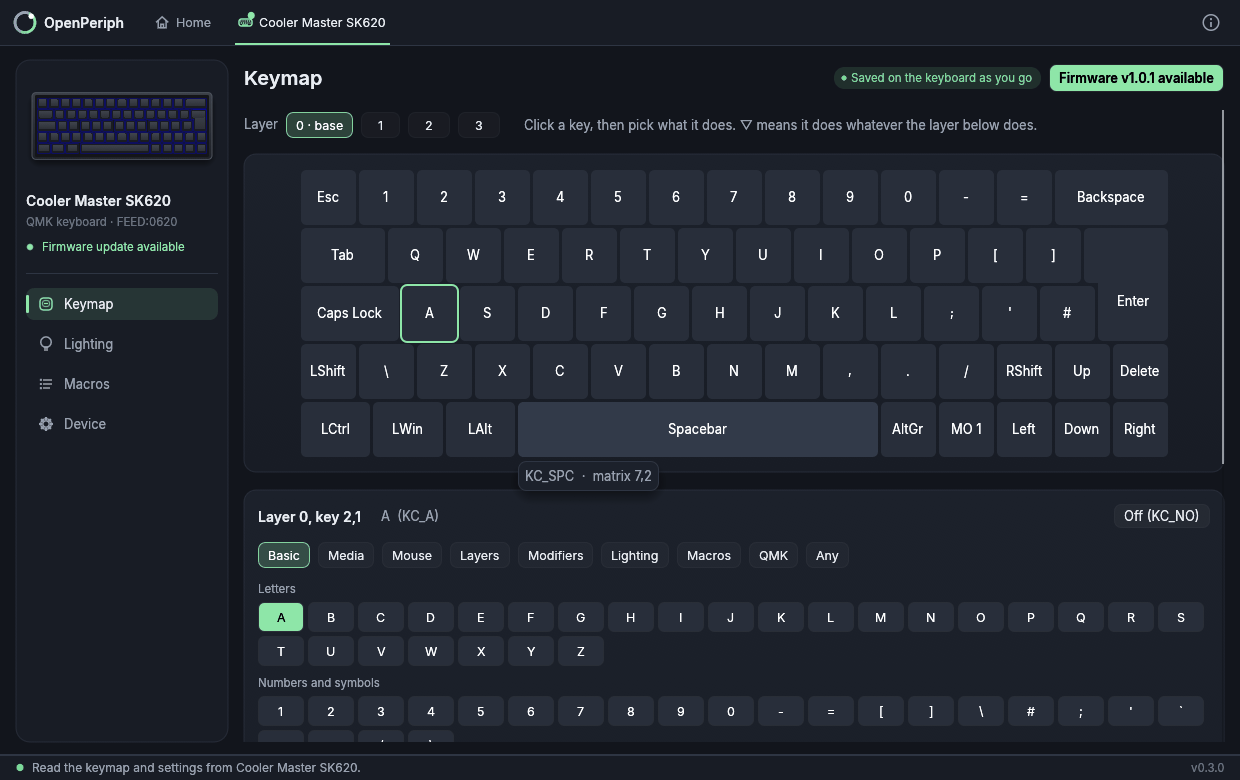
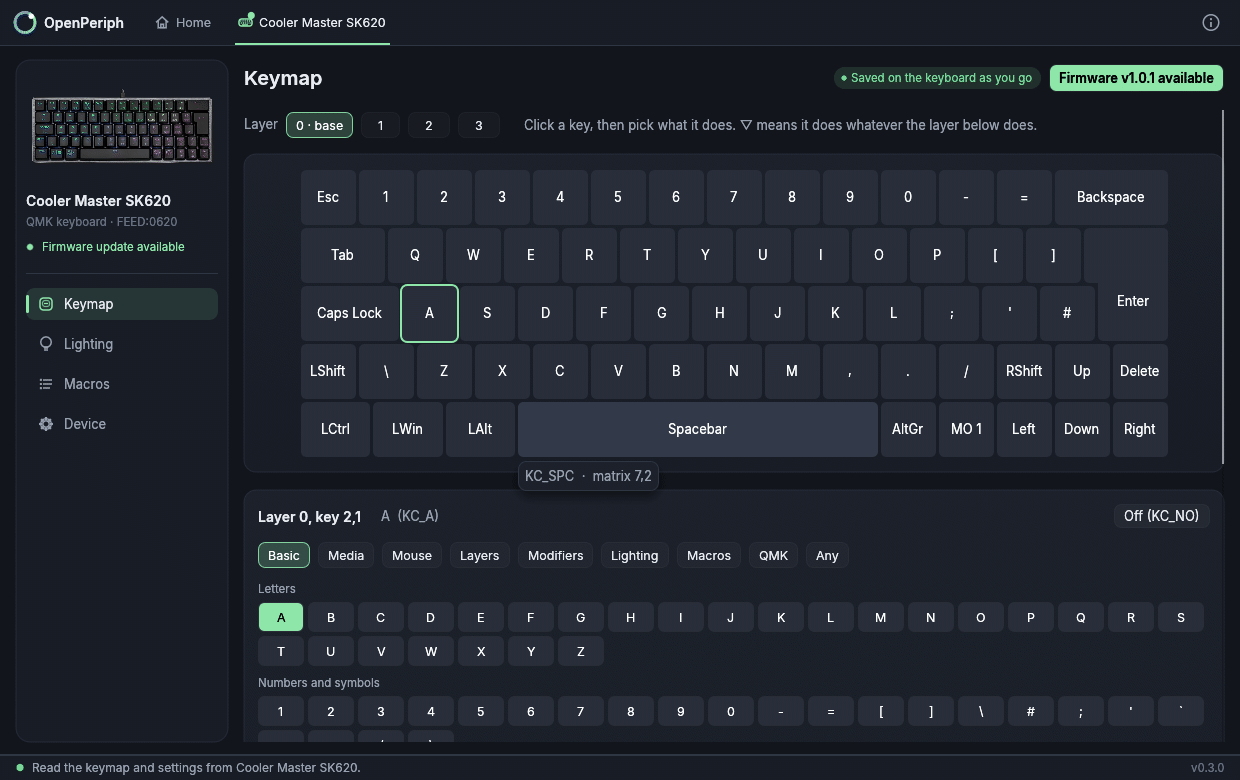
Photos of the SK620 and CIY X78 too
Product photos with the white background removed (flood fill from the edges, soft edge),
bundled and shown wherever these keyboards appear unless you pick your own photo.

Claude-Session: https://claude.ai/code/session_01DgkXHx1UEjKkGhSzFn2nf5

Changed region(s): [[0.0, 0.0923, 0.1839, 0.2154]]

diff --git a/src/app/shell.rs b/src/app/shell.rs
@@ -30,12 +30,14 @@ impl Pictures {
     }
 
     /// A photo that comes with the app, for devices that have one.
-    pub fn bundled(&mut self, ctx: &egui::Context, id: &str) -> Option<egui::TextureHandle> {
-        let bytes: &'static [u8] = match id {
-            "attack-shark-r5-ultra" => include_bytes!("../../assets/devices/attack-shark-r5-ultra.png"),
+    pub fn bundled(&mut self, ctx: &egui::Context, info: &crate::device::DeviceInfo) -> Option<egui::TextureHandle> {
+        let (name, bytes): (&str, &'static [u8]) = match (info.id.as_str(), info.vendor_id, info.product_id) {
+            ("attack-shark-r5-ultra", _, _) => ("attack-shark-r5-ultra", include_bytes!("../../assets/devices/attack-shark-r5-ultra.png")),
+            ("ciy-x78", _, _) => ("ciy-x78", include_bytes!("../../assets/devices/ciy-x78.png")),
+            (_, 0xFEED, 0x0620) => ("cooler-master-sk620", include_bytes!("../../assets/devices/cooler-master-sk620.png")),
             _ => return None,
         };
-        let key = format!("bundled-{id}");
+        let key = format!("bundled-{name}");
         self.loaded.entry(key.clone()).or_insert_with(|| theme::texture_from_bytes(ctx, &key, bytes)).clone()
     }
 
@@ -443,7 +445,8 @@ impl OpenPeriphApp {
             theme::photo(p, rect, &tex);
             return;
         }
-        if let Some(tex) = self.pictures.bundled(ctx, &id) {
+        let info = self.devices[i].driver.info().clone();
+        if let Some(tex) = self.pictures.bundled(ctx, &info) {
             theme::photo(p, rect, &tex);
             return;
         }

diff --git a/src/app/qmk_ui.rs b/src/app/qmk_ui.rs
@@ -131,7 +131,7 @@ impl QmkState {
 /// The simulated keyboard for `--demo`.
 pub fn demo_driver() -> Arc<dyn Driver> {
     let def = Definition::parse(definition::BUNDLED[0]).ok();
-    let mut d = QmkDriver::new(0xFEED, 0x0620, "demo".into(), "SK620".into(), "QMK".into(), def);
+    let mut d = QmkDriver::new(0xFEED, 0x0620, "demo".into(), "SK620".into(), "Cooler Master".into(), def);
     d.demo = true;
     Arc::new(d)
 }

diff --git a/CHANGELOG.md b/CHANGELOG.md
@@ -12,7 +12,7 @@ version, and the section becomes the release notes on GitHub.
 - A tab for each plugged-in device along the top, and a Home page with a card for each one.
 - Each device has its own navigation (Keymap, Lighting, Macros, Performance, Device) with a
   picture of it: drawn from its real key layout (in its current lighting colour for QMK
-  keyboards), a photo of the R5 ULTRA, or a photo of your own (Device page → Picture).
+  keyboards), product photos of the SK620, X78 and R5 ULTRA, or a photo of your own (Device page → Picture).
 - Appearance (About page): plain, faint smoke, or a picture of your own behind the panels.
 - Firmware updates: asks whether to update when newer SK620 firmware is out, with the release
   notes. The Device page shows one status line (installed → latest) and one Update button; the

diff --git a/docs/development.md b/docs/development.md
@@ -72,7 +72,7 @@ Ordinary pushes are only built, never released. To release the version that's al
 
 - [Inter](https://rsms.me/inter/) typeface by Rasmus Andersson, under the SIL Open Font Licence
   (`assets/fonts/Inter-LICENSE.txt`).
-- The Attack Shark R5 ULTRA photo (`assets/devices/`) is Attack Shark's product photo, with the
-  background removed.
+- The device photos in `assets/devices/` are the makers' product photos (Attack Shark, CIY,
+  Cooler Master) with the backgrounds removed. The CIY photo shows the X77 (French layout).
 - The QMK/VIA support follows QMK's own source. The device protocols credit their sources in
   `docs/protocols/`.
